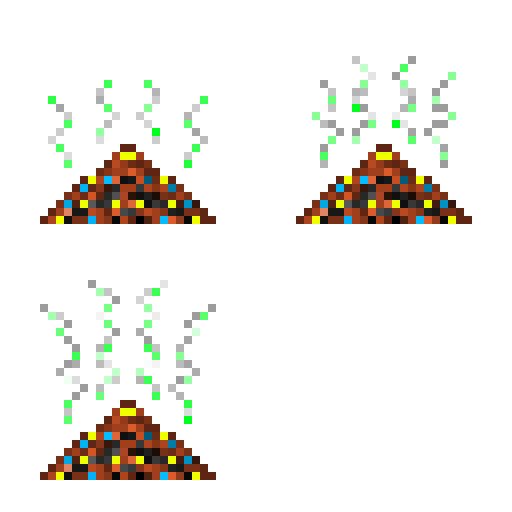
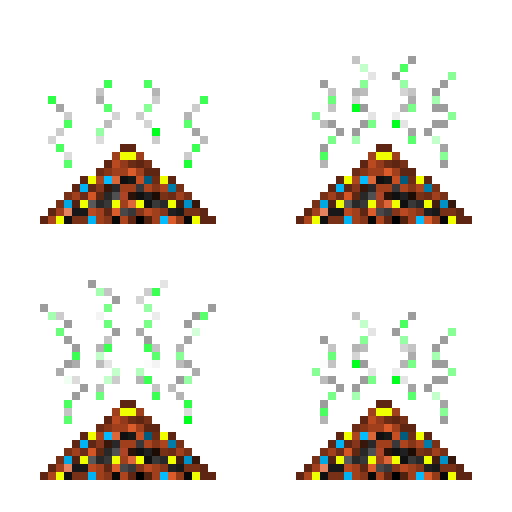
Added Poop Button(50%)
-Added Poop button
-need to fix it so it becomes an animated sprite.

Changed region(s): [[0.5625, 0.5938, 0.9375, 0.9375], [0.875, 0.625, 0.9062, 0.6562]]

diff --git a/app/src/main/java/com/robomigos/squadgames/robomigos/Scenes/HomeScreen.java b/app/src/main/java/com/robomigos/squadgames/robomigos/Scenes/HomeScreen.java
@@ -24,6 +24,7 @@ public class HomeScreen extends Screen {
     public static Pixmap quitButtonImage;
     public static Pixmap shopButtonImage;
     public static Pixmap inventoryButtonImage;
+    public static Pixmap poopImage;
 
     //Mood Images
     public static Pixmap angryFaceImage;
@@ -53,7 +54,7 @@ public class HomeScreen extends Screen {
     public static Pixmap cybordBird;
     public static Pixmap robotMan;
     public static Pixmap robotFrog;
-    public static Pixmap  robotPoop;
+   // public static Pixmap  robotPoop;
 
 
     //Buttons
@@ -61,6 +62,8 @@ public class HomeScreen extends Screen {
     public Button shopButton;
     public Button inventoryButton;
     public Button quitButton;
+    public Button robotPoop;
+
 
     //Bars
     public DisplayBar healthBar;
@@ -97,13 +100,14 @@ public class HomeScreen extends Screen {
         quitButtonImage = g.newPixmap("Quit.png",Graphics.PixmapFormat.ARGB4444);
         shopButtonImage =g.newPixmap("Shop.png",Graphics.PixmapFormat.ARGB4444);
         inventoryButtonImage =g.newPixmap("Inventory.png",Graphics.PixmapFormat.ARGB4444);
+        poopImage = g.newPixmap("poop.png", Graphics.PixmapFormat.ARGB4444);
 
 
         //Robot references to pixmap
         cybordBird = g.newPixmap("cyborgbird.png",Graphics.PixmapFormat.RGB565);
         robotMan = g.newPixmap("robotman.png",Graphics.PixmapFormat.RGB565);
         robotFrog = g.newPixmap("frog.png",Graphics.PixmapFormat.RGB565);
-        robotPoop = g.newPixmap("poop.png",Graphics.PixmapFormat.RGB565);
+       // robotPoop = g.newPixmap("poop.png",Graphics.PixmapFormat.RGB565);
 
         // Number font
         font = g.newPixmap("numbersBlack.png", Graphics.PixmapFormat.ARGB4444);
@@ -117,6 +121,9 @@ public class HomeScreen extends Screen {
         quitButton = new Button(g, quitButtonImage, quitButtonImage, 5, 88, 0, 0, g.getWidth(), g.getHeight(), bgToScreenRatio);
         inventoryButton = new Button(g, inventoryButtonImage, inventoryButtonImage, 58, 87, 0, 0, g.getWidth(), g.getHeight(), bgToScreenRatio);
         shopButton = new Button(g, shopButtonImage, shopButtonImage, 58, 72, 0, 0, g.getWidth(), g.getHeight(), bgToScreenRatio);
+
+       //Poop Button
+        robotPoop = new Button(g, poopImage, poopImage, 65, 45, 0, 0, g.getWidth(), g.getHeight(), bgToScreenRatio);
 
         // Create Display Bars
         healthBar = new DisplayBar(g, backBarBorderImage, healthBarImage, 12, 4, 0, 0, g.getWidth(), g.getHeight(), bgToScreenRatio);
@@ -183,7 +190,10 @@ public class HomeScreen extends Screen {
                 }
             }
         }
-        healthBar.fillAmount -= deltaTime; // For testing the health bar
+       //The health Bar
+       // healthBar.fillAmount = deltaTime; // For testing the health bar
+
+
     }
 
     @Override
@@ -223,6 +233,7 @@ public class HomeScreen extends Screen {
         quitButton.Draw();
         inventoryButton.Draw();
         shopButton.Draw();
+        //robotPoop.Draw();
 
     }
 
